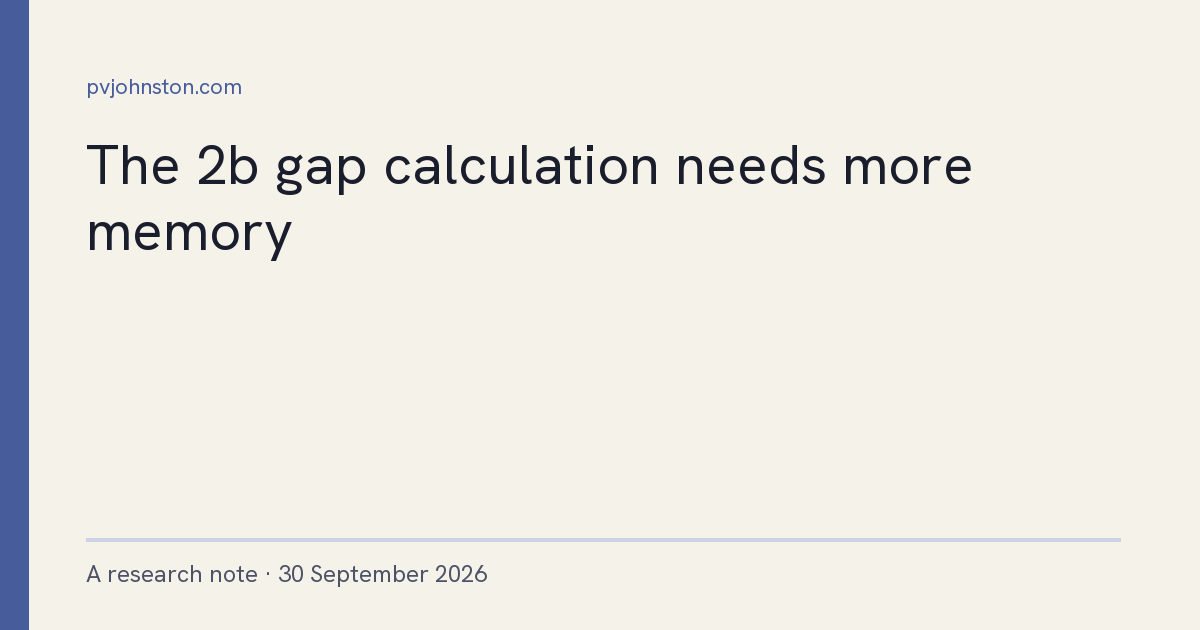
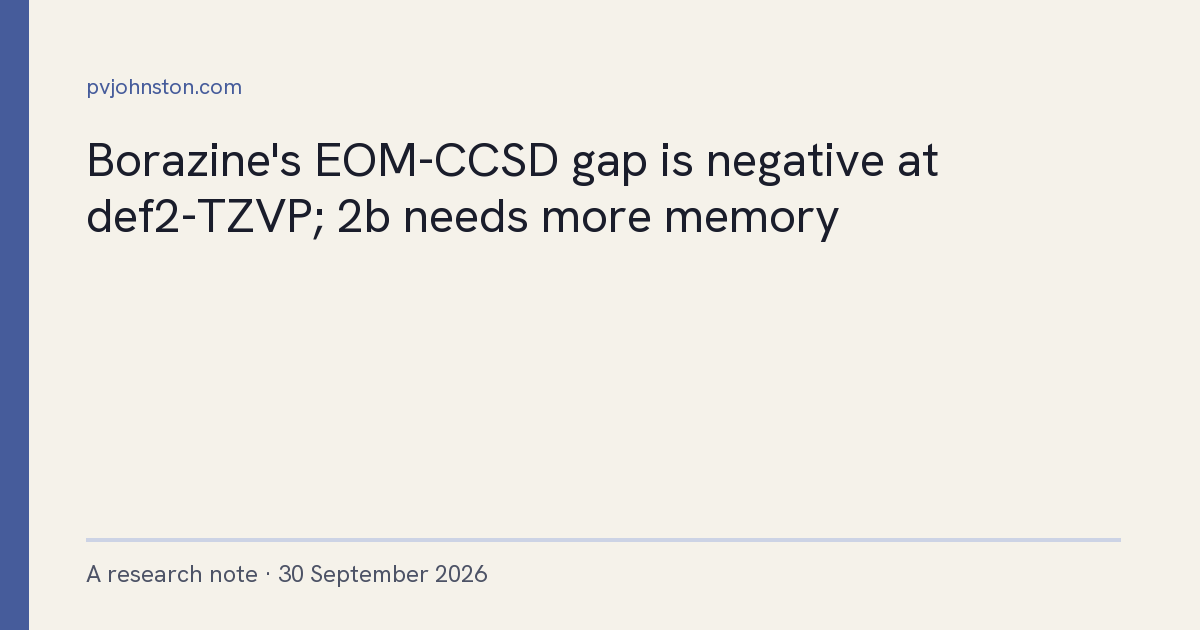
Lead borazine follow-up with the sign change

Changed region(s): [[0.0617, 0.2111, 0.8325, 0.4222]]

diff --git a/posts/2026-09-30-borazine-inverted-gap-followup.md b/posts/2026-09-30-borazine-inverted-gap-followup.md
@@ -1,11 +1,11 @@
 ---
-title: "The 2b gap calculation needs more memory"
+title: "Borazine's EOM-CCSD gap is negative at def2-TZVP; 2b needs more memory"
 date: 2026-09-30
 author: Peter Johnston
 tags: "quantum chemistry, excited states"
-description: "Our 2b ADC(2) attempt ended without a gap. The inputs are ready for a team with more compute; Amendment 1 is non-decisive."
+description: "Borazine's EOM-CCSD gap shifts from +117.6 to −47.5 meV; Amendment 1 is non-decisive. The 2b ADC(2) handoff is ready for a team with more compute."
 post-type: research
-contribution: "A documented resource limit and executable handoff for the independent 2b ADC(2) rematch, which are not in Shizu et al. 2026."
+contribution: "Measured basis sensitivity of borazine's EOM-CCSD gap, including its sign change between def2-SVP and def2-TZVP, alongside a documented resource limit and executable handoff for the independent 2b ADC(2) rematch, which are not in Shizu et al. 2026."
 contribution-type: "untested regime"
 experiment: borazine-inverted-gap
 status: inconclusive
@@ -13,11 +13,11 @@ status: inconclusive
 
 ## Abstract
 
-We could not complete the 2b ADC(2)/def2-TZVP gap calculation on our MacBook Pro. This continues our independent rematch of Shizu, Ishihara, Uratani, and Kaji's *Inorganic benzenes with inverted singlet-triplet gaps* (2026). [@Shizu2026] We prepared this experiment for a team with access to higher levels of compute to run. No completed 2b ADC(2) excitation energies or gap are available. Amendment 1 is **non-decisive**: borazine's EOM-CCSD gap changes from +[borazine_svp_gap_mev]{.metric} meV at def2-SVP to [a1_borazine_gap_mev]{.metric} meV at def2-TZVP, a [borazine_basis_shift_mev]{.metric} meV decrease. Boroxine stays positive, but borazine lies inside the frozen ±50 meV band.
+Borazine's EOM-CCSD gap changes from +[borazine_svp_gap_mev]{.metric} meV at def2-SVP to [a1_borazine_gap_mev]{.metric} meV at def2-TZVP, a [borazine_basis_shift_mev]{.metric} meV decrease, while Amendment 1 is **non-decisive** under its frozen ±50 meV rule. This independent rematch of Shizu, Ishihara, Uratani, and Kaji's *Inorganic benzenes with inverted singlet-triplet gaps* (2026) also reached a compute limit: we could not complete the 2b ADC(2)/def2-TZVP gap calculation on our MacBook Pro. [@Shizu2026] Boroxine stays positive, but borazine lies inside the frozen band. We prepared this experiment for a team with access to higher levels of compute to run. No completed 2b ADC(2) excitation energies or gap are available.
 
 ## Introduction
 
-The [first note](/posts/2026-09-28-borazine-inverted-gap.html) reported the initial ADC(2) rematch and small-basis EOM-CCSD checks. The next compound is **2b (anth-BN)**, using the SI label; **2a (naph-BN)** is our smaller completed comparison. The published 2b ADC(2)/def2-TZVP gap is +106 meV. [@Shizu2026] Its frozen S1 sign test fails if our gap is non-positive, and magnitude reproduction requires agreement within ±50 meV. The [preregistration](/research/borazine-inverted-gap/PREREGISTRATION.md), frozen in `59824fd`, remains unchanged by this report.
+The EOM-CCSD rerun at def2-TZVP reverses borazine's positive def2-SVP gap from the [first note](/posts/2026-09-28-borazine-inverted-gap.html), but the frozen Amendment 1 rule assigns a **non-decisive** verdict. The 2b ADC(2)/def2-TZVP attempt ended without a gap on our Mac, leaving its sign test inconclusive. The ADC(2) follow-up targets **2b (anth-BN)**, using the SI label; **2a (naph-BN)** is our smaller completed comparison. The published 2b ADC(2)/def2-TZVP gap is +106 meV. [@Shizu2026] Its frozen S1 sign test fails if our gap is non-positive, and magnitude reproduction requires agreement within ±50 meV. The [preregistration](/research/borazine-inverted-gap/PREREGISTRATION.md), frozen in `59824fd`, remains unchanged by this report.
 
 ## Computational Methods
 
@@ -54,7 +54,7 @@ The final [timing log](/research/borazine-inverted-gap/results/2b-adc2-stopped.t
 
 The 2b sign test remains **inconclusive** because the attempt supplied no gap. Its failure to finish does not test the published sign. The completed 2a calculation had [a_occupied]{.metric} occupied × [a_virtual]{.metric} virtual orbitals and took [a_hours]{.metric} h with about [a_rss_gb]{.metric} decimal GB peak RSS. A doubles-storage model proportional to $(ov)^2$ gives a [doubles_ratio]{.metric}× size ratio for 2b. Applying it to 2a's measured RSS gives roughly [estimated_gb]{.metric} decimal GB for in-core storage. This extrapolation is a planning estimate; we have not verified either its memory requirement or runtime on a larger machine.
 
-Peter observed a roughly 37 GB footprint and 28.4 of 29.7 GB swap in use near the stop. Those operator observations are preserved in the archived prompt, but no monitor capture was available to verify their timing or counter definitions. The final timing counters above are the retained machine record. We cannot accomplish this calculation without more compute within our budget; we will not occupy this Mac for weeks trying to obtain it.
+We observed a roughly 37 GB footprint and 28.4 of 29.7 GB swap in use while monitoring near the stop. Those operator observations are preserved in the archived prompt, but no monitor capture was retained to verify their timing or counter definitions. The final timing counters above are the retained machine record. We cannot accomplish this calculation without more compute within our budget; we will not occupy this Mac for weeks trying to obtain it.
 
 Amendment 1, frozen in `8c0a21e` before either def2-TZVP EOM-CCSD run, is **non-decisive**. Its rule first requires the boroxine gap to be positive; if ΔEST(11) ≤ 0, A1 is inconclusive. With the control satisfied, ΔEST(1) > +50 meV means method-driven sign disagreement at def2-TZVP; ΔEST(1) < −50 meV means the def2-SVP sign flip was basis-driven. The inclusive interval −50 to +50 meV is non-decisive. The control passes at +[a1_boroxine_gap_mev]{.metric} meV, while borazine at [a1_borazine_gap_mev]{.metric} meV remains inside that interval. The frozen rule therefore assigns neither a method-driven nor a basis-driven verdict.
 
@@ -71,6 +71,8 @@ Peter's compute rule: nothing that would take weeks on this Mac.
 ```
 
 The [Amendment 1 update prompt](/research/borazine-inverted-gap/prompts/04-amendment1-results-fill.md) is also archived verbatim.
+
+The [title and polish prompt](/research/borazine-inverted-gap/prompts/05-followup-title-and-polish.md) records the request to lead with the borazine result while preserving the 2b handoff.
 
 The [publication manifest](/research/borazine-inverted-gap/PUBLIC_FILES.txt) lists the inputs and retained evidence. A small [metrics generator](/research/borazine-inverted-gap/generate-metrics.mjs) derives the resource figures, completed EOM-CCSD gaps and basis shift from the retained logs, journal and JSONs. The incomplete ADC(2) attempt still supplies no gap. The first post now has a dated update linking these results; the frozen calculation scripts are unchanged.
 

diff --git a/research/borazine-inverted-gap/prompts/05-followup-title-and-polish.md b/research/borazine-inverted-gap/prompts/05-followup-title-and-polish.md
@@ -1,0 +1,16 @@
+Polish draft PR #120 (branch post/borazine-a1-results) in pvjohnston/pvjohnston.com before merge. Work in the existing worktree for that branch under ~/noprofits/pvjohnston-worktrees/ (never the primary tree, per AGENTS.md). Read only local files; never open live pvjohnston.com URLs. Verify against _site/ after a local rebuild.
+
+File: posts/2026-09-30-borazine-inverted-gap-followup.md
+
+1. Title. The borazine EOM-CCSD sign flip at def2-TZVP is now the lead finding alongside the 2b compute limit. Retitle so both are visible, in plain words, e.g. "Borazine's EOM-CCSD gap turns negative at def2-TZVP; 2b needs more memory" (pick the clearest short version; no colon-heavy headline). Do NOT rename the file or change the URL slug.
+2. Description front matter: lead with the borazine result (+117.6 to −47.5 meV, Amendment 1 non-decisive), then the 2b handoff. Use the metric values, not new hand-typed numbers where the template supports metrics; if front matter cannot render metrics, the rounded values above are acceptable.
+3. contribution / contribution-type front matter: add the measured basis sensitivity of borazine's EOM-CCSD gap (sign change between def2-SVP and def2-TZVP) next to the existing 2b resource-limit/handoff contribution. Keep status: inconclusive (2b ADC(2) has no gap; A1 is non-decisive).
+4. Abstract and Introduction: make sure the first two sentences a reader sees state the borazine flip and the non-decisive verdict, then the 2b limit. Keep the "prepared for a team with access to higher levels of compute to run" wording and the open invitation for feedback, comments and results exactly as they are.
+5. Attribution: the sentence "Peter observed a roughly 37 GB footprint and 28.4 of 29.7 GB swap..." should read as an observation made during monitoring ("We observed..."), keeping the caveat that no monitor capture was retained and that the timing log counters are the machine record.
+6. In the first post (posts/2026-09-28-borazine-inverted-gap.md), make sure the dated Update paragraph is separated by blank lines from the paragraphs around it, and that its link text still fits the new follow-up title. Change nothing else there.
+7. Check the site's post index, home page, and any tag or feed listing pick up the new title correctly.
+8. Style: ACS-style Research note, plain prose, avoid repeated "this is X, not Y" contrasts. No X posting.
+9. Save this prompt verbatim as research/borazine-inverted-gap/prompts/05-followup-title-and-polish.md, add a prompts/README.md row (recipient: Codex CLI; date 2026-09-30; what it did), and list it in PUBLIC_FILES.txt. Add one sentence in the follow-up's Prompts and data section linking prompt 05.
+10. Rebuild and run the repo's usual build, test, bibliography, metrics, link, allowlist and whitespace checks. Push to the same branch so PR #120 updates; update the PR title/body to match. Leave it as a draft. Do not merge.
+
+Report the new title, the final description line, and check results.

diff --git a/research/borazine-inverted-gap/prompts/README.md b/research/borazine-inverted-gap/prompts/README.md
@@ -10,6 +10,7 @@ prompts only built the scaffold, installed PySCF, froze the preregistration and 
 | `02-writeup-draft.codex.md` | Codex CLI on the M1 | 2026-09-29, about 12:40 | Wrote the draft Research note from the completed result JSONs and journal, copied results into `results/`, and committed locally (4973a24). Codex corrected one claim in this prompt: EOM-CCSD disagrees with ADC(2) on sign only for 1, 10 and 12, not across the whole set. |
 | `03-followup-2b-compute-and-amendment1.md` | Codex CLI | 2026-09-30 | Prepared the stopped 2b compute handoff and follow-up Research note, checked available EOM-CCSD outputs, archived the request, built the site and opened a draft PR. |
 | `04-amendment1-results-fill.md` | Codex CLI | 2026-09-30 | Archived completed A1 and 2b EOM-CCSD outputs and logs, filled the follow-up with generated metrics and the non-decisive A1 verdict, added a dated first-post update, and verified a local rebuild for a draft PR. |
+| `05-followup-title-and-polish.md` | Codex CLI | 2026-09-30 | Led the follow-up with borazine's basis-sensitive EOM-CCSD sign change and non-decisive A1 verdict, preserved the 2b handoff and URL, clarified monitoring attribution, refreshed the title card, and checked local pages and listings before updating draft PR #120. |
 
 One disclosed deviation: the prompt's package checksum refers to an earlier build of the input tarball.
 Before launch that tarball was rebuilt so the preregistration carried the smoke-test disclosure and the
